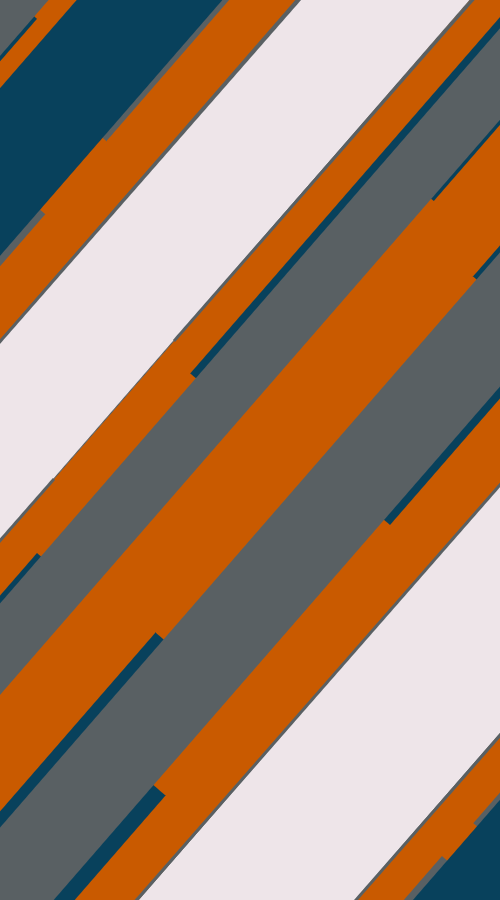
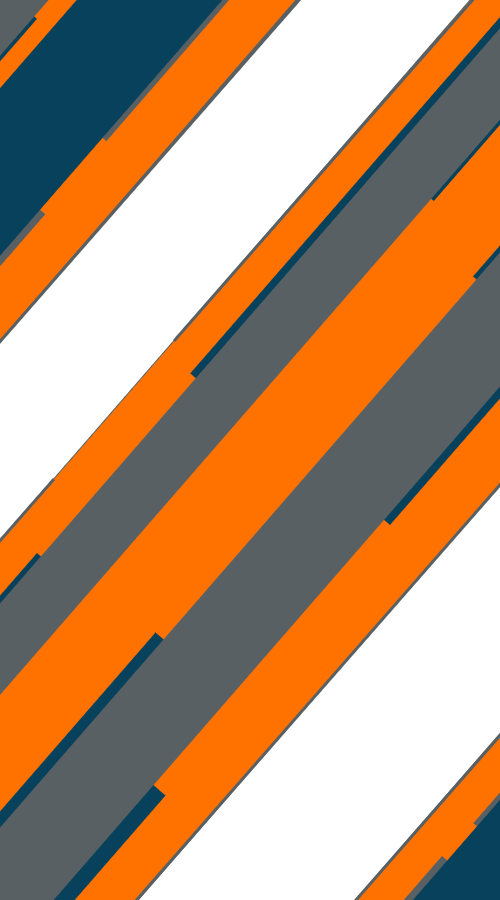
commit on master

diff --git a/src/app/pages/tab2/tab2.page.scss b/src/app/pages/tab2/tab2.page.scss
@@ -1,5 +1,5 @@
 ion-content {
-    --background: url('/assets/img/tło6.png') 0 0/100% 100% no-repeat;
+    --background: url('/assets/img/tło8.png') 0 0/100% 100% no-repeat;
     
 }
 .bg-transparent {

diff --git a/src/app/pages/tab3/tab3.page.scss b/src/app/pages/tab3/tab3.page.scss
@@ -1,5 +1,5 @@
 ion-content {
-    --background: url('/assets/img/tło6.png') 0 0/100% 100% no-repeat;
+    --background: url('/assets/img/tło8.png') 0 0/100% 100% no-repeat;
     
 }
 .bg-transparent {

diff --git a/src/app/pages/tab1/tab1.page.scss b/src/app/pages/tab1/tab1.page.scss
@@ -1,5 +1,5 @@
 ion-content {
-  --background: url('/assets/img/tło6.png') 0 0/100% 100% no-repeat;
+  --background: url('/assets/img/tło8.png') 0 0/100% 100% no-repeat;
   
 }
 .bg-transparent {
